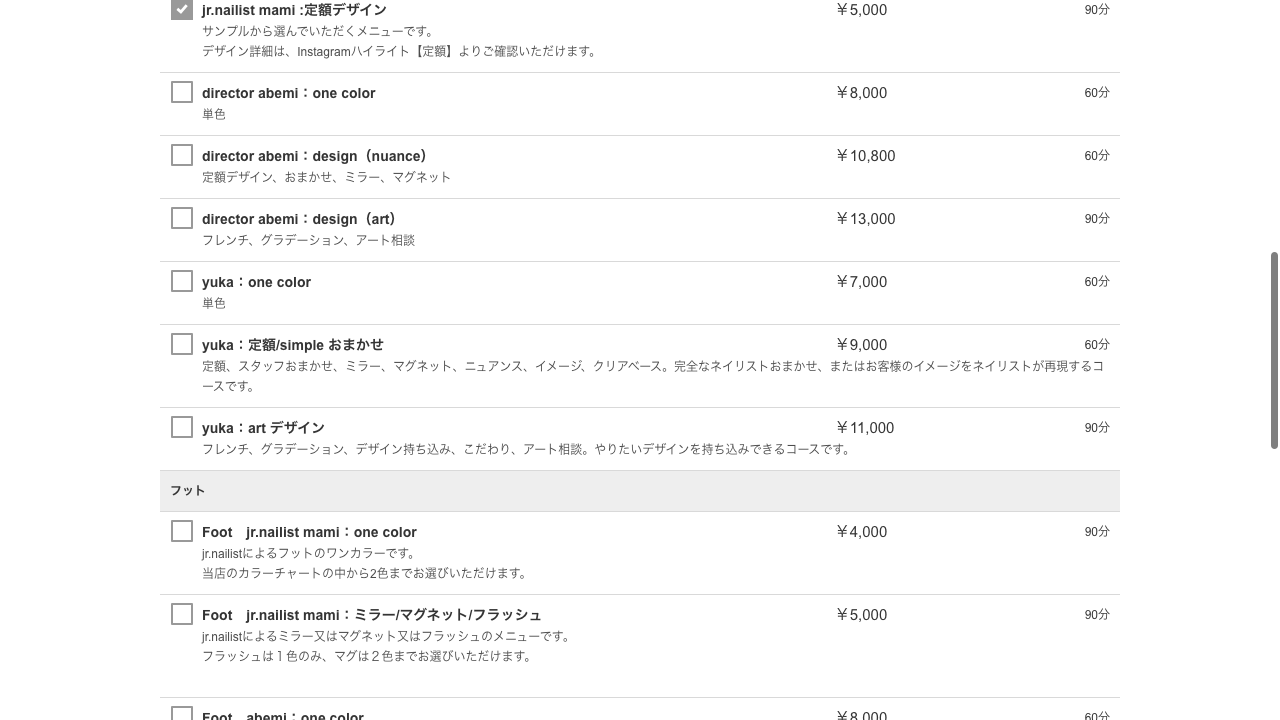
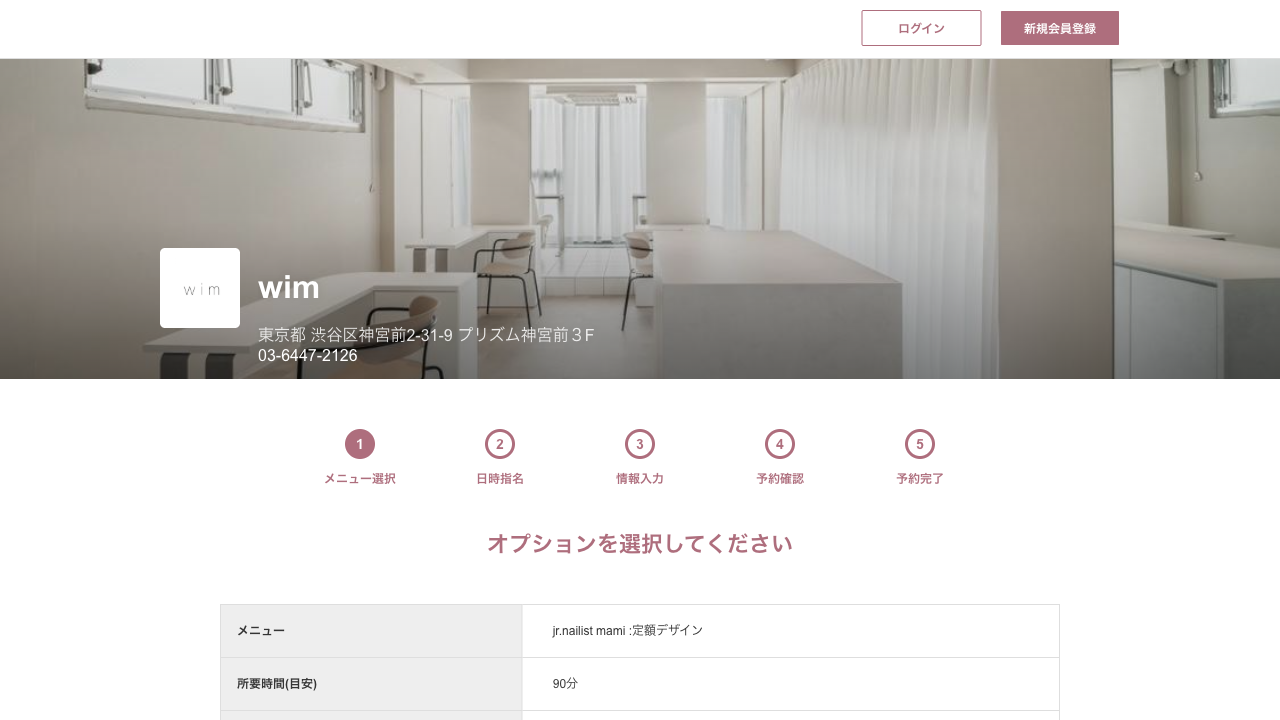
Navigate to options page by clicking nextButton

diff --git a/checker.py b/checker.py
@@ -12,9 +12,10 @@ async def check_slots():
         await page.wait_for_load_state("networkidle")
 
         # 点击第一个菜单
-        await page.click(f"label[for='{MENU_IDS[0]}']")         
+        await page.click(f"label[for='{MENU_IDS[0]}']")  
+               
         print(f"点击了 {MENU_IDS[0]}")
-        
+        await page.click("a.nextButton")        
         await page.screenshot(path="debug.png")
         print("截图已保存！")
         
